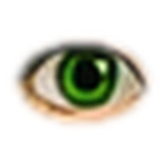
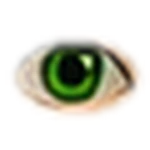
Hero: corrige la transparence du pull et remonte le bloc sous le menu
- Nouveau détourage de l'avatar (flood-fill depuis les bords du fond, plus seuil de couleur global) : les rayures blanches du pull n'étaient que ~22% opaques et laissaient transparaître le dégradé violet derrière elle
- Régénère avatar-hero.webp + avatar-eye-left/right.webp avec le nouveau détourage, réajuste les ancres de suivi oculaire (fx/fy) sur la nouvelle image recadrée
- Réduit le padding-top du hero (184px -> 130px) pour resserrer la marge avec le menu
- Réduit l'amplitude du mouvement des yeux (MAX_SHIFT 5px -> 3px) : le mouvement précédent déformait un peu le regard

Claude-Session: https://claude.ai/code/session_01HKw43mJVaQCq72G7DzU4R5

Changed region(s): [[0.1067, 0.24, 0.9333, 0.7733]]

diff --git a/index.html b/index.html
@@ -463,7 +463,7 @@
   .hero-inner{
     position:relative; z-index:1;
     max-width:1296px; margin:0 auto;
-    padding:184px 24px 0 24px;
+    padding:130px 24px 0 24px;
     display:grid; grid-template-columns:1.25fr 0.75fr; align-items:start; gap:4px;
     will-change:transform;
   }
@@ -784,7 +784,7 @@
       </div>
     </div>
     <div class="hero-avatar reveal" id="heroAvatar">
-      <img class="avatar-img" src="assets/avatar-hero.webp" alt="Estelle Lavenac" width="798" height="2198">
+      <img class="avatar-img" src="assets/avatar-hero.webp" alt="Estelle Lavenac" width="717" height="2198">
       <div class="eye" id="eyeLeft" aria-hidden="true"><img src="assets/avatar-eye-left.webp" alt="" draggable="false"></div>
       <div class="eye" id="eyeRight" aria-hidden="true"><img src="assets/avatar-eye-right.webp" alt="" draggable="false"></div>
     </div>
@@ -1211,13 +1211,13 @@
   if (heroAvatar && eyeLeft && eyeRight && matchMedia('(pointer:fine)').matches && !matchMedia('(prefers-reduced-motion: reduce)').matches) {
     // anchor points as a fraction of the base image's own width/height
     var EYES = [
-      { el: eyeLeft,  fx: 0.4611, fy: 0.1130 },
-      { el: eyeRight, fx: 0.6109, fy: 0.1088 }
+      { el: eyeLeft,  fx: 0.4071, fy: 0.1130 },
+      { el: eyeRight, fx: 0.5737, fy: 0.1109 }
     ];
     var eyeTargetX = 0, eyeTargetY = 0;
     var eyeCurrentX = 0, eyeCurrentY = 0;
     var eyeRaf = null;
-    var MAX_SHIFT = 5; // px, at native avatar scale
+    var MAX_SHIFT = 3; // px, at native avatar scale
 
     function layoutEyes(){
       if (matchMedia('(max-width:900px)').matches) {
